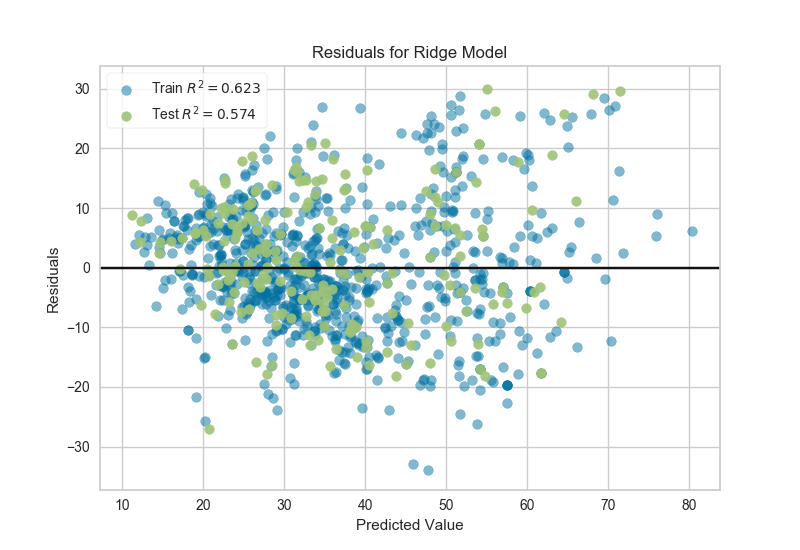
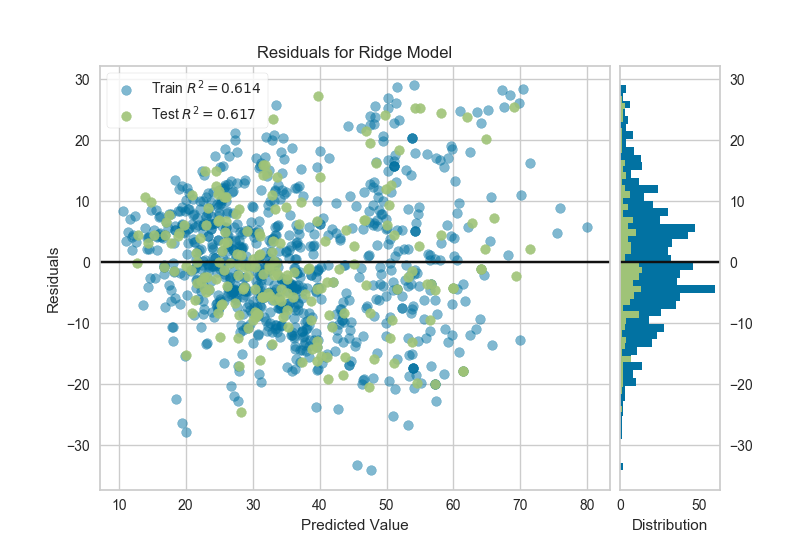
updated tests and documentation

diff --git a/tests/test_regressor/test_residuals.py b/tests/test_regressor/test_residuals.py
@@ -2,6 +2,7 @@
 # Ensure that the regressor residuals visualizations work.
 #
 # Author:   Rebecca Bilbro <rbilbro@districtdatalabs.com>
+# Author:   Benjamin Bengfort <bbengfort@districtdatalabs.com>
 # Created:  Sat Oct 8 16:30:39 2016 -0400
 #
 # Copyright (C) 2016 District Data Labs
@@ -17,11 +18,13 @@ Ensure that the regressor residuals visualizations work.
 ## Imports
 ##########################################################################
 
-# import sys
+import sys
 import pytest
+import matplotlib as mpl
 import matplotlib.pyplot as plt
 
 from yellowbrick.regressor.residuals import *
+from yellowbrick.exceptions import YellowbrickValueError
 
 from tests.base import VisualTestCase
 from tests.dataset import DatasetMixin, Dataset, Split
@@ -38,6 +41,10 @@ try:
     import pandas as pd
 except ImportError:
     pd = None
+
+
+# Determine version of matplotlib
+MPL_VERS_MAJ = int(mpl.__version__.split(".")[0])
 
 
 ##########################################################################
@@ -76,6 +83,8 @@ class TestPredictionError(VisualTestCase, DatasetMixin):
     Test the PredictionError visualizer
     """
 
+    @pytest.mark.filterwarnings("ignore:Stochastic Optimizer")
+    @pytest.mark.filterwarnings("ignore:internal gelsd driver lwork query error")
     def test_prediction_error(self):
         """
         Test image similarity of prediction error on random data
@@ -134,19 +143,50 @@ class TestPredictionError(VisualTestCase, DatasetMixin):
         assert score == pytest.approx(0.9999983124154965)
         assert visualizer.score_ == score
 
-    @pytest.mark.skip(reason="not implemented yet")
     def test_peplot_shared_limits(self):
         """
         Test shared limits on the peplot
         """
-        raise NotImplementedError("not yet implemented")
+        visualizer = PredictionError(LinearRegression(), shared_limits=False)
 
-    @pytest.mark.skip(reason="not implemented yet")
-    def test_peplot_draw_bounds(self):
+        visualizer.fit(self.data.X.train, self.data.y.train)
+        visualizer.score(self.data.X.test, self.data.y.test)
+        visualizer.finalize()
+
+        xlim = tuple(map(int, visualizer.ax.get_xlim()))
+        ylim = tuple(map(int, visualizer.ax.get_ylim()))
+        assert xlim == ylim
+
+    @pytest.mark.filterwarnings("ignore:internal gelsd driver lwork query error")
+    def test_peplot_no_shared_limits(self):
         """
-        Test the peplot +/- one bounding in draw
+        Test image similarity with no shared limits on the peplot
         """
-        raise NotImplementedError("not yet implemented")
+        visualizer = PredictionError(Ridge(random_state=43), shared_limits=False)
+
+        visualizer.fit(self.data.X.train, self.data.y.train)
+        visualizer.score(self.data.X.test, self.data.y.test)
+        visualizer.finalize()
+
+        xlim = tuple(map(int, visualizer.ax.get_xlim()))
+        ylim = tuple(map(int, visualizer.ax.get_ylim()))
+        assert not xlim == ylim
+
+        self.assert_images_similar(visualizer, remove_legend=True)
+
+    def test_peplot_no_lines(self):
+        """
+        Test image similarity with no lines drawn on the plot
+        """
+        visualizer = PredictionError(
+            Lasso(random_state=23, alpha=10), bestfit=False, identity=False
+        )
+
+        visualizer.fit(self.data.X.train, self.data.y.train)
+        visualizer.score(self.data.X.test, self.data.y.test)
+        visualizer.finalize()
+
+        self.assert_images_similar(visualizer, remove_legend=True)
 
 
 ##########################################################################
@@ -159,6 +199,9 @@ class TestResidualsPlot(VisualTestCase, DatasetMixin):
     Test ResidualPlot visualizer
     """
 
+    @pytest.mark.xfail(
+        sys.platform == 'win32', reason="images not close on windows (RMSE=32)"
+    )
     def test_residuals_plot(self):
         """
         Image similarity of residuals plot on random data with OLS
@@ -173,9 +216,10 @@ class TestResidualsPlot(VisualTestCase, DatasetMixin):
 
         self.assert_images_similar(visualizer, tol=1, remove_legend=True)
 
-    # @pytest.mark.xfail(
-    #     sys.platform == 'win32', reason="images not close on windows (RMSE=32)"
-    # )
+    @pytest.mark.xfail(
+        sys.platform == 'win32', reason="images not close on windows (RMSE=32)"
+    )
+    @pytest.mark.filterwarnings("ignore:Stochastic Optimizer")
     def test_residuals_plot_no_histogram(self):
         """
         Image similarity test when hist=False
@@ -191,20 +235,35 @@ class TestResidualsPlot(VisualTestCase, DatasetMixin):
 
         self.assert_images_similar(visualizer, tol=1, remove_legend=True)
 
-    @pytest.mark.skip(reason="not implemented yet")
-    def test_hist_matplotlib_version(self):
+    @pytest.mark.skipif(MPL_VERS_MAJ >= 2, reason="test requires mpl earlier than 2.0.2")
+    def test_hist_matplotlib_version(self, mock_toolkit):
         """
         ValueError is raised when matplotlib version is incorrect and hist=True
         """
-        pass
+        with pytst.raises(ImportError):
+            from mpl_toolkits.axes_grid1 import make_axes_locatable
+            assert not make_axes_locatable
 
-    @pytest.mark.skip(reason="not implemented yet")
-    def test_no_hist_matplotlib_version(self):
+        with pytest.raises(YellowbrickValueError, match="requires matplotlib 2.0.2"):
+            ResidualsPlot(LinearRegression(), hist=True)
+
+    @pytest.mark.skipif(MPL_VERS_MAJ >= 2, reason="test requires mpl earlier than 2.0.2")
+    def test_no_hist_matplotlib_version(self, mock_toolkit):
         """
         No error is raised when matplotlib version is incorrect and hist=False
         """
-        pass
+        with pytst.raises(ImportError):
+            from mpl_toolkits.axes_grid1 import make_axes_locatable
+            assert not make_axes_locatable
 
+        try:
+            ResidualsPlot(LinearRegression(), hist=False)
+        except YellowbrickValueError as e:
+            self.fail(e)
+
+    @pytest.mark.xfail(
+        sys.platform == 'win32', reason="images not close on windows (RMSE=32)"
+    )
     def test_residuals_quick_method(self):
         """
         Image similarity test using the residuals plot quick method
@@ -218,6 +277,9 @@ class TestResidualsPlot(VisualTestCase, DatasetMixin):
 
         self.assert_images_similar(ax=ax, tol=1, remove_legend=True)
 
+    @pytest.mark.xfail(
+        sys.platform == 'win32', reason="images not close on windows (RMSE=32)"
+    )
     @pytest.mark.skipif(pd is None, reason="pandas is required")
     def test_residuals_plot_pandas(self):
         """

diff --git a/docs/api/regressor/residuals.py b/docs/api/regressor/residuals.py
@@ -1,4 +1,5 @@
 import pandas as pd
+import matplotlib.pyplot as plt
 
 from sklearn.linear_model import Ridge
 from sklearn.model_selection import train_test_split
@@ -6,25 +7,38 @@ from sklearn.model_selection import train_test_split
 from yellowbrick.regressor import ResidualsPlot
 
 
-if __name__ == '__main__':
+def plot_residuals(X, y, model, outpath="images/residuals.png", **kwargs):
+    X_train, X_test, y_train, y_test = train_test_split(X, y, test_size=0.2)
+
+    _, ax = plt.subplots()
+
+    visualizer = ResidualsPlot(model, ax=ax, **kwargs)
+    visualizer.fit(X_train, y_train)
+    visualizer.score(X_test, y_test)
+    visualizer.poof(outpath=outpath)
+
+
+def load_concrete():
     # Load the regression data set
     df = pd.read_csv("../../../examples/data/concrete/concrete.csv")
 
-    feature_names = ['cement', 'slag', 'ash', 'water', 'splast', 'coarse', 'fine', 'age']
+    feature_names = [
+        'cement', 'slag', 'ash', 'water', 'splast', 'coarse', 'fine', 'age'
+    ]
     target_name = 'strength'
 
     # Get the X and y data from the DataFrame
-    X = df[feature_names].as_matrix()
-    y = df[target_name].as_matrix()
+    X = df[feature_names]
+    y = df[target_name]
 
-    # Create the train and test data
-    X_train, X_test, y_train, y_test = train_test_split(X, y, test_size=0.2)
+    return X, y
 
-    # Instantiate the linear model and visualizer
-    ridge = Ridge()
-    visualizer = ResidualsPlot(ridge)
 
-    visualizer.fit(X_train, y_train)  # Fit the training data to the visualizer
-    visualizer.score(X_test, y_test)  # Evaluate the model on the test data
 
-    g = visualizer.poof(outpath="images/residuals.png")
+if __name__ == '__main__':
+    # Draw the default residuals graph
+    X, y = load_concrete()
+    plot_residuals(X, y, Ridge())
+
+    # Draw the residuals graph with no histogram
+    plot_residuals(X, y, Ridge(), "images/residuals_no_hist.png", hist=False)

diff --git a/yellowbrick/regressor/residuals.py b/yellowbrick/regressor/residuals.py
@@ -369,7 +369,7 @@ class ResidualsPlot(RegressionScoreVisualizer):
     Notes
     -----
     ResidualsPlot is a ScoreVisualizer, meaning that it wraps a model and
-    its primary entry point is the `score()` method.
+    its primary entry point is the ``score()`` method.
 
     The residuals histogram feature requires matplotlib 2.0.2 or greater.
     """

diff --git a/docs/api/regressor/residuals.rst b/docs/api/regressor/residuals.rst
@@ -3,11 +3,7 @@
 Residuals Plot
 ==============
 
-A residuals plot shows the residuals on the vertical axis and the
-independent variable on the horizontal axis. If the points are randomly
-dispersed around the horizontal axis, a linear regression model is
-appropriate for the data; otherwise, a non-linear model is more
-appropriate.
+Residuals, in the context of regression models, are the difference between the observed value of the target variable (y) and the predicted value (ŷ), e.g. the error of the prediction. The residuals plot shows the difference between residuals on the vertical axis and the dependent variable on the horizontal axis, allowing you to detect regions within the target that may be susceptible to more or less error.
 
 .. code:: python
 
@@ -15,12 +11,16 @@ appropriate.
 
     # Load the data
     df = load_data('concrete')
-    feature_names = ['cement', 'slag', 'ash', 'water', 'splast', 'coarse', 'fine', 'age']
+
+    # Identify the feature and target columns
+    feature_names = [
+        'cement', 'slag', 'ash', 'water', 'splast', 'coarse', 'fine', 'age'
+    ]
     target_name = 'strength'
 
-    # Get the X and y data from the DataFrame
-    X = df[feature_names].as_matrix()
-    y = df[target_name].as_matrix()
+    # Separate the instance data from the target data
+    X = df[feature_names]
+    y = df[target_name]
 
     # Create the train and test data
     X_train, X_test, y_train, y_test = train_test_split(X, y, test_size=0.2)
@@ -28,19 +28,33 @@ appropriate.
 .. code:: python
 
     from sklearn.linear_model import Ridge
-
     from yellowbrick.regressor import ResidualsPlot
-    
+
     # Instantiate the linear model and visualizer
     ridge = Ridge()
     visualizer = ResidualsPlot(ridge)
 
-    visualizer.fit(X_train, y_train)  # Fit the training data to the visualizer
+    visualizer.fit(X_train, y_train)  # Fit the training data to the model
     visualizer.score(X_test, y_test)  # Evaluate the model on the test data
-    g = visualizer.poof()             # Draw/show/poof the data
+    visualizer.poof()                 # Draw/show/poof the data
 
 .. image:: images/residuals.png
 
+
+A common use of the residuals plot is to analyze the variance of the error of the regressor. If the points are randomly dispersed around the horizontal axis, a linear regression model is usually appropriate for the data; otherwise, a non-linear model is more appropriate. In the case above, we see a fairly random, uniform distribution of the residuals against the target in two dimensions. This seems to indicate that our linear model is performing well. We can also see from the histogram that our error is normally distributed around zero, which also generally indicates a well fitted model.
+
+Note that if the histogram is not desired, it can be turned off with the ``hist=False`` flag:
+
+.. code:: python
+
+    visualizer = ResidualsPlot(ridge, hist=False)
+    visualizer.fit(X_train, y_train)
+    visualizer.score(X_test, y_test)
+    visualizer.poof()
+
+.. image:: images/residuals_no_hist.png
+
+.. warning:: The histogram on the residuals plot requires matplotlib 2.0.2 or greater. If you are using an earlier version of matplotlib, simply set the ``hist=False`` flag so that the histogram is not drawn. 
 
 API Reference
 -------------
